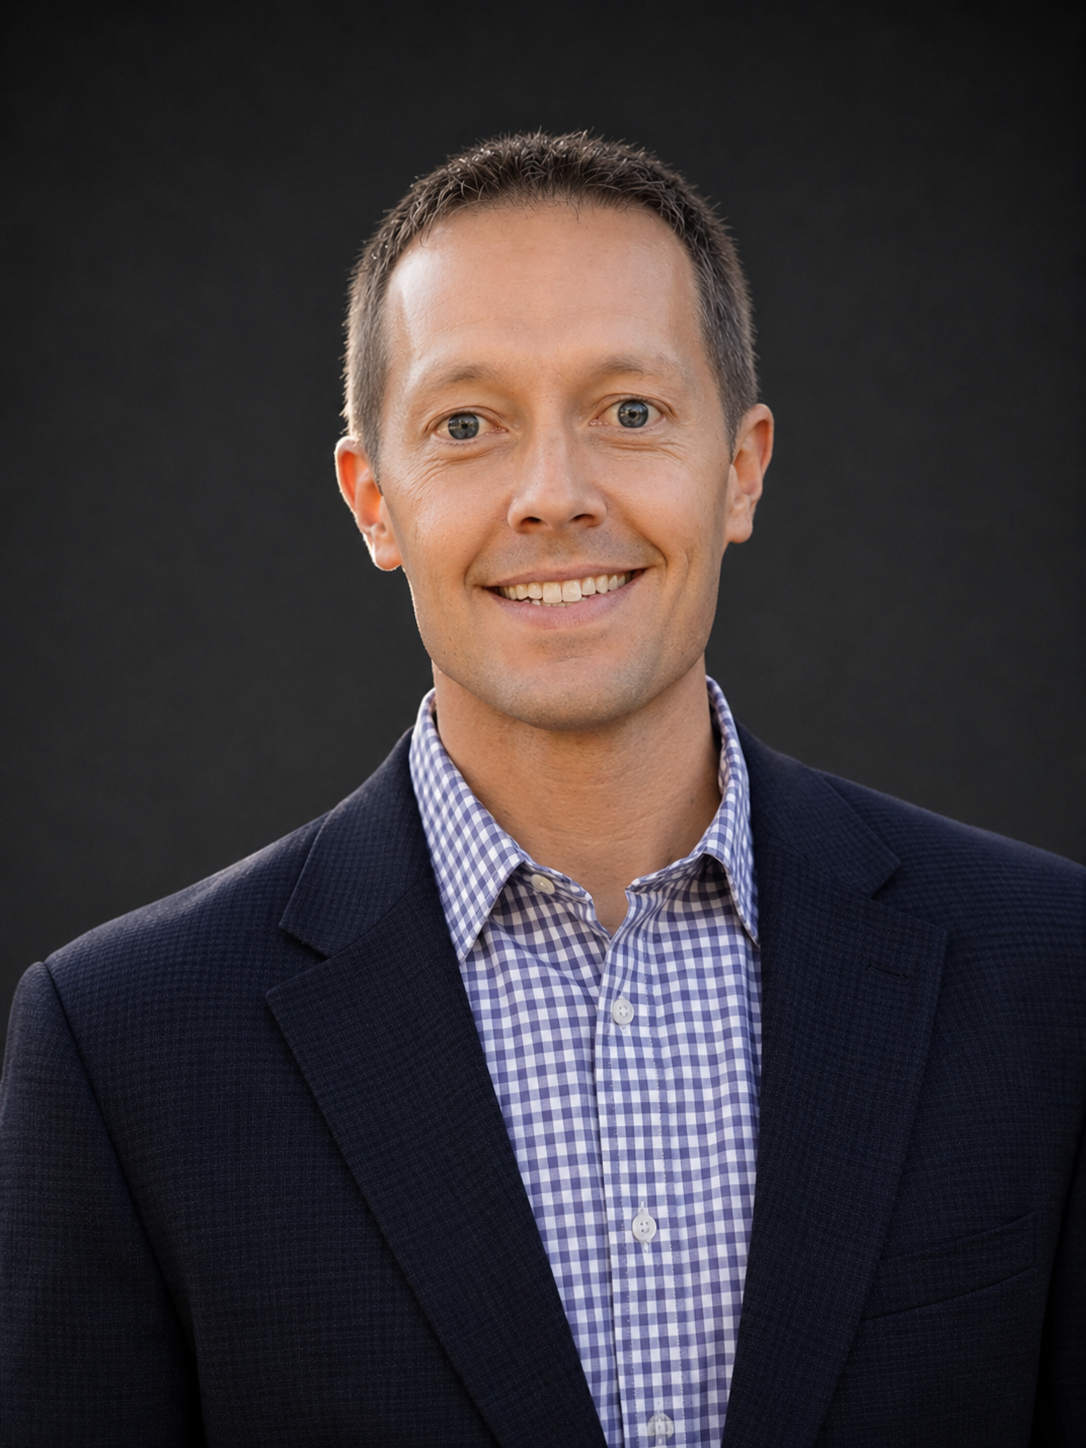
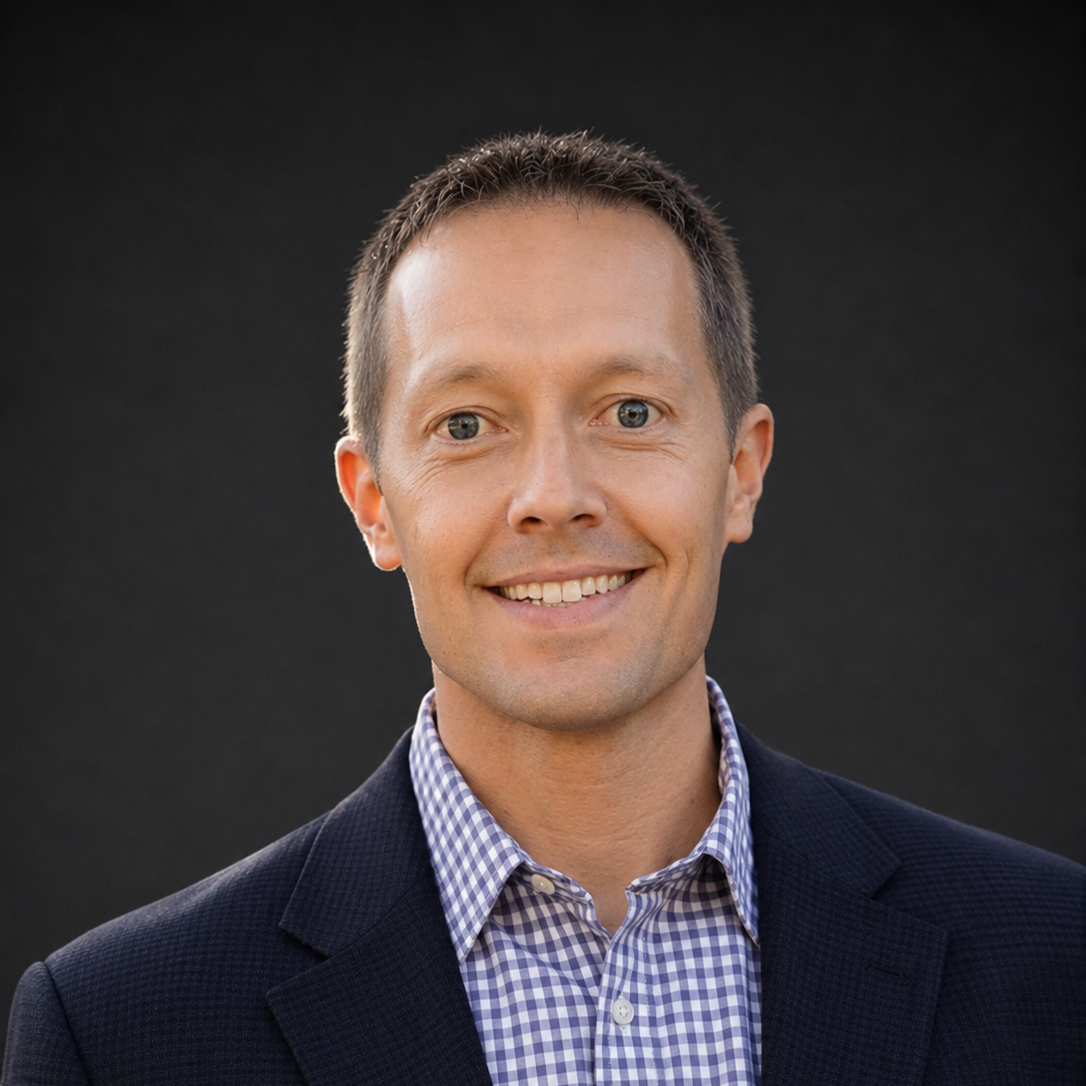
altering image ratios

diff --git a/src/data/leadership.ts b/src/data/leadership.ts
@@ -39,7 +39,7 @@ export const alumniHeading = "Alumni";
 
 export const members: TeamMember[] = [
   {
-    name: "Kirk Woodward",
+    name: "Kirk Woodward, MD",
     title: "CEO / CMO",
     image: "/images/kirk.png",
     bio: "WHY: I believe at the center of every primary care provider is the desire to care for people. Having the opportunity to provide a free clinic where our friends and neighbors can access care is really at the heart of primary cares values.",
@@ -55,7 +55,7 @@ export const members: TeamMember[] = [
     // isAlumni: true,
   },
   {
-    name: "Darrell Stacey",
+    name: "Darrell Stacey, MD",
     title: "Medical Director",
     image: "/images/stacey.webp",
     bio: "WHY: Feeling like he’s greatly blessed in his life, Doctor Stacey is overjoyed to be able to give back and try to bless the lives of other people by serving at the Bingham Family Clinic. Loretta is the first to say that having this opportunity to serve has added meaning and joy to his life.",
@@ -63,7 +63,7 @@ export const members: TeamMember[] = [
     // isAlumni: true,
   },
   {
-    name: "Bryant Marchant",
+    name: "Bryant Marchant, MD",
     title: "Medical Director",
     image: "/images/marchant.jpeg",
     bio: "",

diff --git a/src/data/board.ts b/src/data/board.ts
@@ -20,7 +20,7 @@ export const heading = "Bingham Family Clinic Board of Directors";
 
 export const members: BoardMember[] = [
   {
-    name: "Kirk Woodward",
+    name: "Kirk Woodward, MD",
     title: "CEO",
     image: "/images/kirk.png",
     bio: "Kirk Woodward M.D. brings a distinguished blend of clinical expertise, compassionate care, and decades of real-world experience to the Bingham Family Clinic. As a dedicated physician, he has served countless individuals and families with integrity, precision and heart.\nBeyond his clinical practice, Dr. Woodward is an advocate for education and community health. He has mentored future healthcare professionals, participated in service-driven medical initiatives, and consistently contributed to advancing healthcare delivery through thoughtful leadership and innovation.\nWHY: I believe at the center of every primary care provider is the desire to care for people. Having the opportunity to provide a free clinic where our friends and neighbors can access care is really at the heart of primary cares values.",
